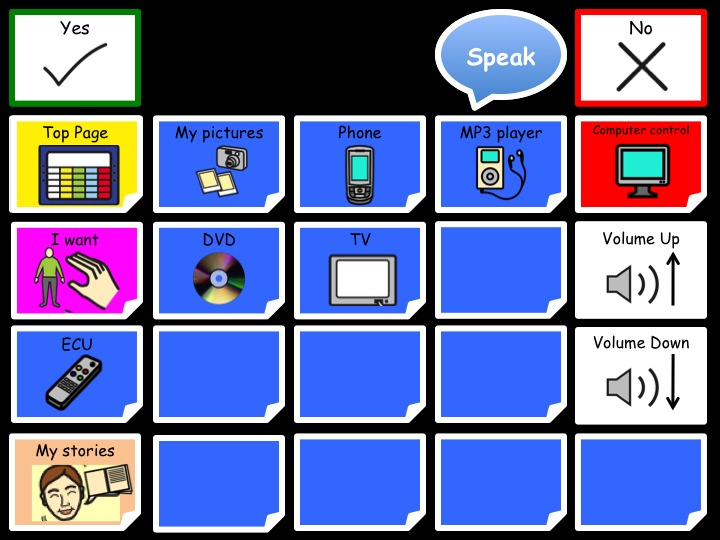
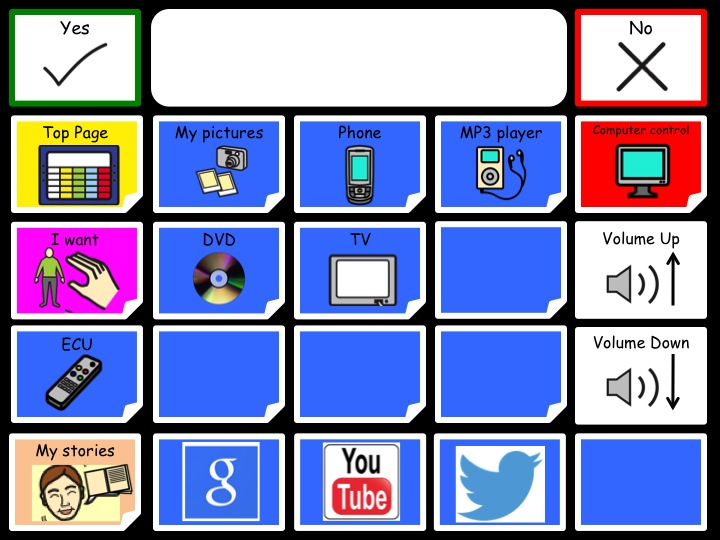
update based on kates small late change

diff --git a/main.js b/main.js
@@ -971,7 +971,7 @@ function feelings(){
 	links[0][1]="1";
 	utterances[1][1]="feelings";
 	utterances[2][1]="afraid";
-	utterances[3][1]="nice";
+	utterances[3][1]="safe";
 	utterances[4][1]="busy";
 
 	utterances[0][2]="It is";
@@ -1152,7 +1152,7 @@ function foodchat(){
 
 	links[0][1]="1";
 	utterances[1][1]="I like it";
-	utterances[2][1]="It's gross";
+	utterances[2][1]="It's grose";
 	utterances[3][1]="It's spicy";
 	utterances[4][1]="Cut up food";
 
@@ -1164,7 +1164,7 @@ function foodchat(){
 
 	utterances[0][3]="What's for dinner?";
 	utterances[1][3]="What have you been doing?";
-	utterances[2][3]="I've had enought";
+	utterances[2][3]="I've had enough";
 	utterances[3][3]="eat";
 	utterances[4][3]="drink";
 
@@ -1322,7 +1322,7 @@ reset();
 	utterances[4][2]="tree";
 
 	utterances[0][3]="hose";
-	utterances[1][3]="seeks";
+	utterances[1][3]="seeds";
 	utterances[2][3]="hedge cutters";
 	utterances[3][3]="plant";
 	utterances[4][3]="hedge";
@@ -1591,9 +1591,9 @@ reset();
 	utterances[4][3]="volume down";
 
 	links[0][4]="mystories"; 
-	utterances[1][4]="";
-	utterances[2][4]="";
-	utterances[3][4]="";
+	links[1][4]="google";
+	links[2][4]="youtube";
+	links[3][4]="twitter";
 	utterances[4][4]="";
 
 	document.main.src="images/leisure.jpg";
@@ -2313,7 +2313,7 @@ utterances[0][0]="yes ";
 	links[3][1]="questions";
 	links[4][1]="food";
 
-	utterances[0][2]="I";
+	utterances[0][2]=" I";
 	links[1][2]="people";
 	links[2][2]="personalcare";
 	links[3][2]="littlewords";
@@ -3208,7 +3208,7 @@ function spelling(){
 	utterances[3][1]="c";
 	utterances[4][1]="d";
 
-	utterances[0][2]="Backspace";
+	links[0][2]="Backspace";
 	utterances[1][2]="e";
 	utterances[2][2]="f";
 	utterances[3][2]="g";
@@ -3246,12 +3246,12 @@ function spelling2(){
 	utterances[4][0]="no";
 
 	links[0][1]="1";
-	utterances[1][1]="m";
+	utterances[1][1]="n";
 	utterances[2][1]="o";
 	utterances[3][1]="p";
 	utterances[4][1]="q";
 
-	utterances[0][2]="Backspace";
+	links[0][2]="Backspace";
 	utterances[1][2]="r";
 	utterances[2][2]="s";
 	utterances[3][2]="t";
@@ -3849,7 +3849,7 @@ reset();
 
 	utterances[0][2]="bear";
 	utterances[1][2]="camel";
-	utterances[2][2]="chetah";
+	utterances[2][2]="cheetah";
 	utterances[3][2]="deer";
 	utterances[4][2]="elephant";
 
@@ -3904,7 +3904,7 @@ function wml(){
 
 	utterances[0][4]="don't"; 
 	utterances[1][4]="not";
-	utterances[2][4]="";
+	utterances[2][4]="well";
 	utterances[3][4]="burp!";
 	utterances[4][4]="fart!";
 

diff --git a/index.html b/index.html
@@ -96,6 +96,10 @@ function add(i,j) {
 			//There are two special cases for links - clearing the message window, deleting the last word from the message window. Further special behaviours (volume change and the like) could be added here. 
 			case "clear":  document.myform.reset();break;
 			case "deleteword": var lastIndex =  document.myform.outputtext.value.lastIndexOf(" ");  document.myform.outputtext.value = document.myform.outputtext.value.substring(0, lastIndex);break;
+			case "Backspace": document.myform.outputtext.value = document.myform.outputtext.value.substring(0, document.myform.outputtext.value.length-1);break;
+			case "google": image(); break;
+			case "youtube": tube(); break;
+			case "twitter": tweet();break;
 			case "1": page1(); break;
 			default: eval(links[i][j]+"()");
 		}

diff --git a/javascript/spelling2.js b/javascript/spelling2.js
@@ -16,12 +16,12 @@ function spelling2(){
 	utterances[4][0]="no";
 
 	links[0][1]="1";
-	utterances[1][1]="m";
+	utterances[1][1]="n";
 	utterances[2][1]="o";
 	utterances[3][1]="p";
 	utterances[4][1]="q";
 
-	utterances[0][2]="Backspace";
+	links[0][2]="Backspace";
 	utterances[1][2]="r";
 	utterances[2][2]="s";
 	utterances[3][2]="t";

diff --git a/javascript/leisure.js b/javascript/leisure.js
@@ -27,9 +27,9 @@ reset();
 	utterances[4][3]="volume down";
 
 	links[0][4]="mystories"; 
-	utterances[1][4]="";
-	utterances[2][4]="";
-	utterances[3][4]="";
+	links[1][4]="google";
+	links[2][4]="youtube";
+	links[3][4]="twitter";
 	utterances[4][4]="";
 
 	document.main.src="images/leisure.jpg";

diff --git a/javascript/feelings.js b/javascript/feelings.js
@@ -18,7 +18,7 @@ function feelings(){
 	links[0][1]="1";
 	utterances[1][1]="feelings";
 	utterances[2][1]="afraid";
-	utterances[3][1]="nice";
+	utterances[3][1]="safe";
 	utterances[4][1]="busy";
 
 	utterances[0][2]="It is";

diff --git a/javascript/page1.js b/javascript/page1.js
@@ -13,7 +13,7 @@ utterances[0][0]="yes ";
 	links[3][1]="questions";
 	links[4][1]="food";
 
-	utterances[0][2]="I";
+	utterances[0][2]=" I";
 	links[1][2]="people";
 	links[2][2]="personalcare";
 	links[3][2]="littlewords";

diff --git a/javascript/spelling.js b/javascript/spelling.js
@@ -21,7 +21,7 @@ function spelling(){
 	utterances[3][1]="c";
 	utterances[4][1]="d";
 
-	utterances[0][2]="Backspace";
+	links[0][2]="Backspace";
 	utterances[1][2]="e";
 	utterances[2][2]="f";
 	utterances[3][2]="g";
